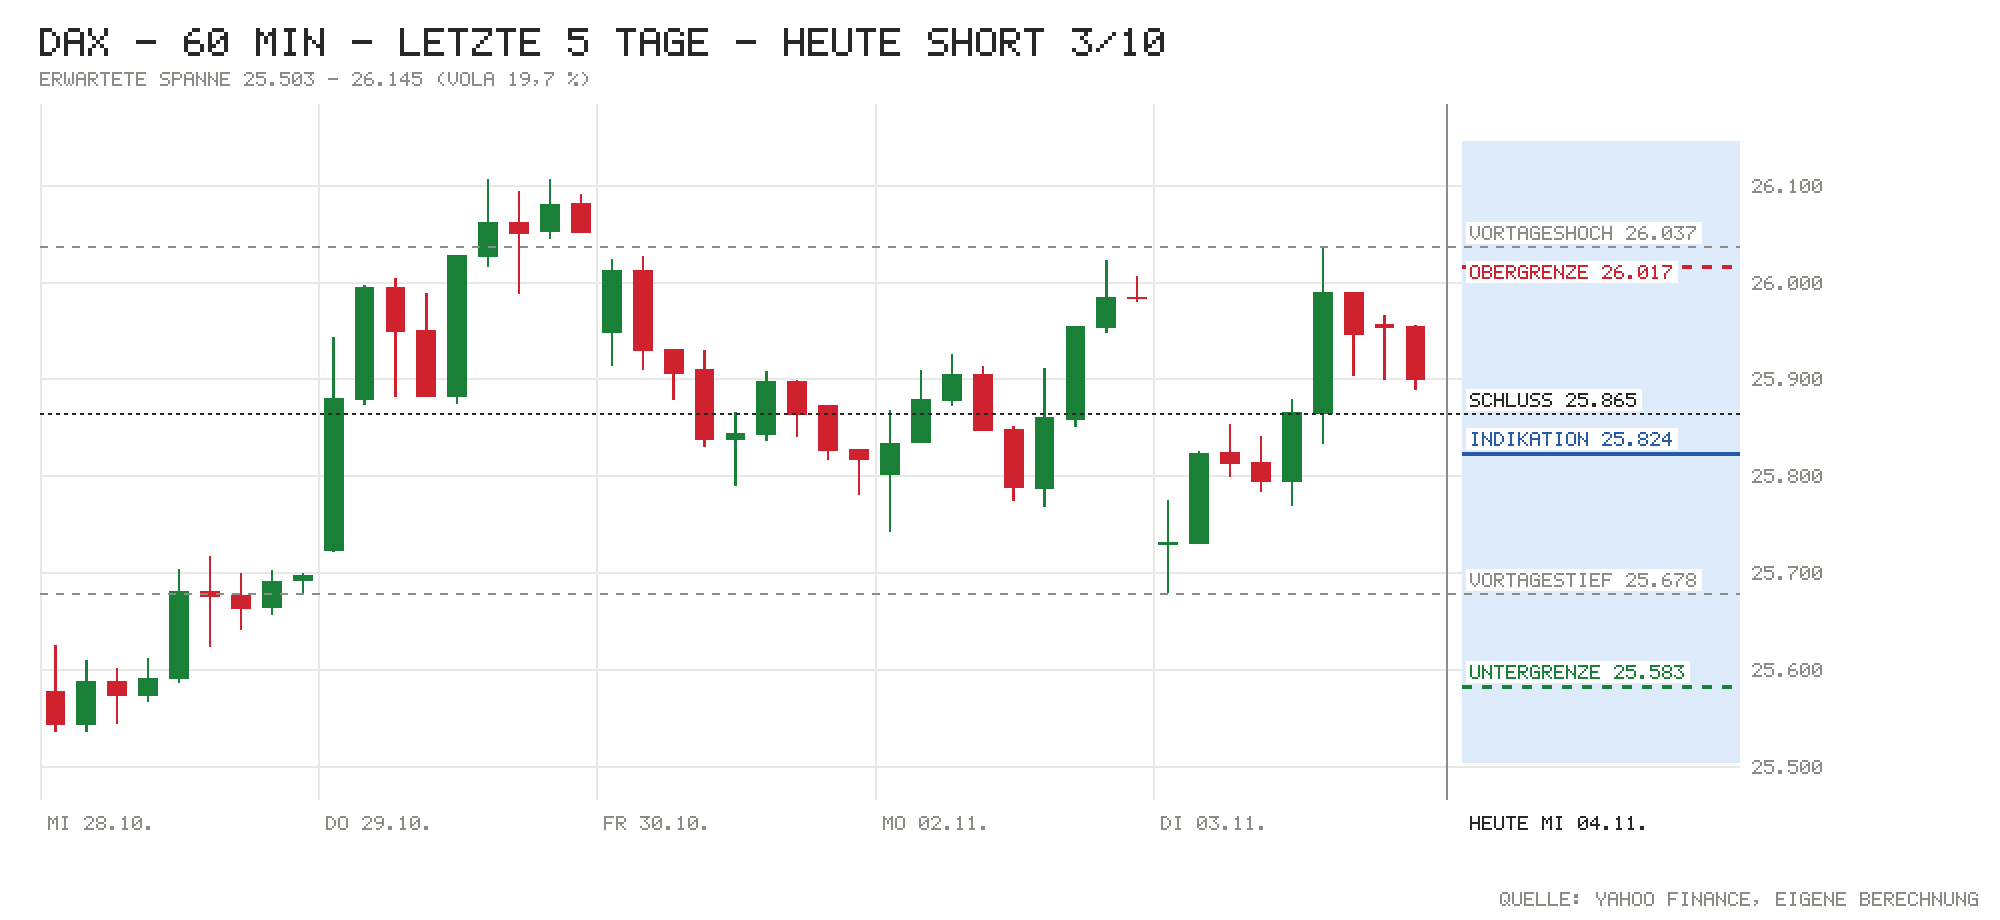
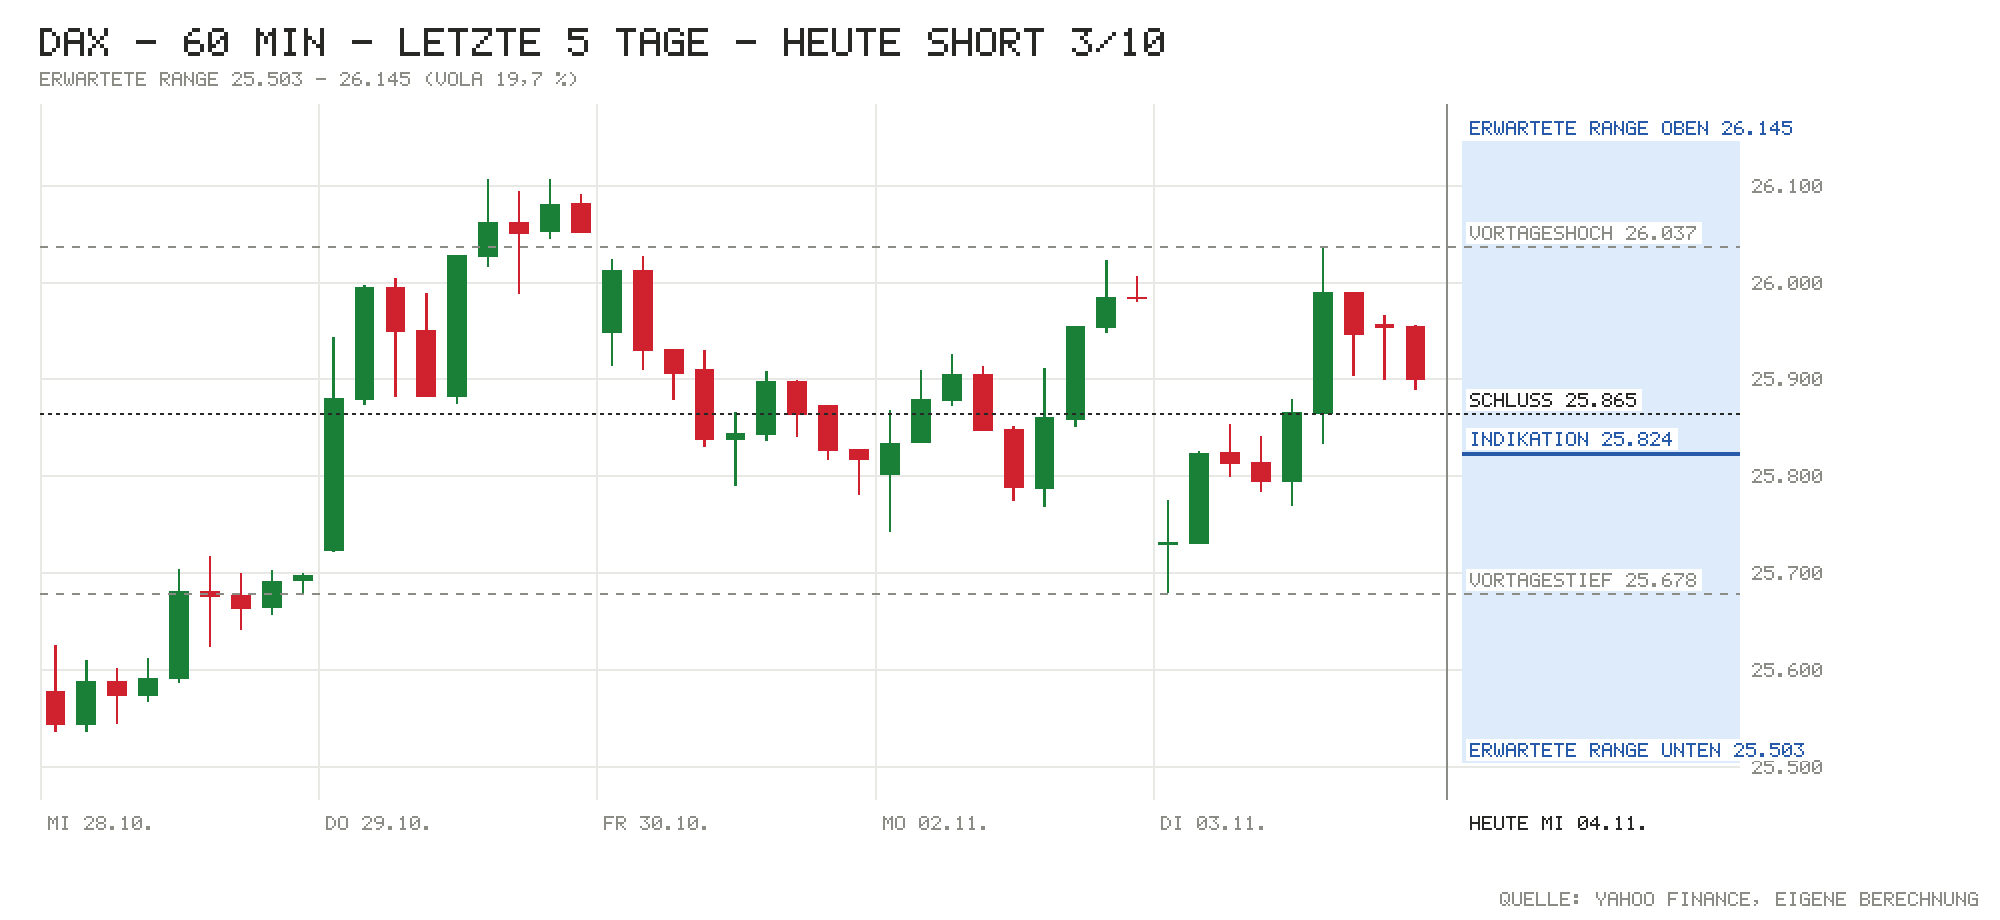
Chart: Ober-/Untergrenze entfernt, Spanne heißt jetzt erwartete Range (oben/unten)

diff --git a/notizen/dax/2026-11-04.html b/notizen/dax/2026-11-04.html
@@ -24,7 +24,7 @@ erstellt: 04.11.2026 08:45
   <div class="chart-live" data-src="{{BASIS}}dax/charts/2026-11-04.json"></div>
   <figure class="chart">
     <img src="{{BASIS}}dax/charts/2026-11-04.png" alt="DAX Stundenkerzen der letzten 5 Tage mit Marken für heute">
-    <figcaption>Ziehen zum Verschieben, Mausrad oder zwei Finger zum Zoomen. Rechts: heute mit Spanne, Indikation, Ober- und Untergrenze.</figcaption>
+    <figcaption>Ziehen zum Verschieben, Mausrad oder zwei Finger zum Zoomen. Rechts: heute mit erwarteter Range und Indikation.</figcaption>
   </figure>
 </section>
 

diff --git a/docs/dax/archiv/2026-11-04.html b/docs/dax/archiv/2026-11-04.html
@@ -34,7 +34,7 @@
   <div class="chart-live" data-src="../../dax/charts/2026-11-04.json"></div>
   <figure class="chart">
     <img src="../../dax/charts/2026-11-04.png" alt="DAX Stundenkerzen der letzten 5 Tage mit Marken für heute">
-    <figcaption>Ziehen zum Verschieben, Mausrad oder zwei Finger zum Zoomen. Rechts: heute mit Spanne, Indikation, Ober- und Untergrenze.</figcaption>
+    <figcaption>Ziehen zum Verschieben, Mausrad oder zwei Finger zum Zoomen. Rechts: heute mit erwarteter Range und Indikation.</figcaption>
   </figure>
 </section>
 

diff --git a/docs/dax/index.html b/docs/dax/index.html
@@ -34,7 +34,7 @@
   <div class="chart-live" data-src="../dax/charts/2026-11-04.json"></div>
   <figure class="chart">
     <img src="../dax/charts/2026-11-04.png" alt="DAX Stundenkerzen der letzten 5 Tage mit Marken für heute">
-    <figcaption>Ziehen zum Verschieben, Mausrad oder zwei Finger zum Zoomen. Rechts: heute mit Spanne, Indikation, Ober- und Untergrenze.</figcaption>
+    <figcaption>Ziehen zum Verschieben, Mausrad oder zwei Finger zum Zoomen. Rechts: heute mit erwarteter Range und Indikation.</figcaption>
   </figure>
 </section>
 

diff --git a/scripts/chart.py b/scripts/chart.py
@@ -5,7 +5,7 @@
 
 Liest daten/<bericht>/JJJJ-MM-TT.json (Stundenkerzen) und entscheidungen/<bericht>/JJJJ-MM-TT.json (Spanne, Grenzen)
 und schreibt notizen/<bericht>/charts/JJJJ-MM-TT.png (+ .json für den beweglichen Chart): die letzten 5 Handelstage in Stundenkerzen, Vortageshoch,
--tief und -schluss, rechts der heutige Tag mit erwarteter Spanne, Referenzkurs, Ober- und Untergrenze.
+-tief und -schluss, rechts der heutige Tag mit erwarteter Range (oben/unten) und Referenzkurs.
 """
 
 import argparse
@@ -141,7 +141,7 @@ def main():
     werte = [c["h"] for c in kerzen] + [c["l"] for c in kerzen]
     for key in ("spanne",):
         werte += e.get(key) or []
-    for key in ("ziel_ca", "stopp_ca", "referenz"):
+    for key in ("referenz",):
         if e.get(key):
             werte.append(e[key])
     lo, hi = min(werte), max(werte)
@@ -192,14 +192,9 @@ def main():
             marken.append((vs, f"SCHLUSS {zahl(vs)} = REF.", BLAU))
         else:
                 marken.append((e["referenz"], f"{'INDIKATION' if e.get('referenz_art') == 'Indikation' else 'REFERENZ'} {zahl(e['referenz'])}", BLAU))
-    if e.get("ziel_ca"):
-        bild.waagerecht(x_heute, R, y(e["ziel_ca"]), GRUEN, strich=5, dicke=2)
-        grenze = "OBERGRENZE" if e["ziel_ca"] > (e.get("referenz") or 0) else "UNTERGRENZE"
-        marken.append((e["ziel_ca"], f"{grenze} {zahl(e['ziel_ca'])}", GRUEN))
-    if e.get("stopp_ca"):
-        bild.waagerecht(x_heute, R, y(e["stopp_ca"]), ROT, strich=5, dicke=2)
-        grenze = "OBERGRENZE" if e["stopp_ca"] > (e.get("referenz") or 0) else "UNTERGRENZE"
-        marken.append((e["stopp_ca"], f"{grenze} {zahl(e['stopp_ca'])}", ROT))
+    if e.get("spanne"):
+        marken.append((e["spanne"][1], f"ERWARTETE RANGE OBEN {zahl(e['spanne'][1])}", BLAU))
+        marken.append((e["spanne"][0], f"ERWARTETE RANGE UNTEN {zahl(e['spanne'][0])}", BLAU))
     # Beschriftungen links im Heute-Bereich, ohne Überlappung
     belegt = []
     for wert, label, farbe in sorted(marken, key=lambda m: -m[0]):
@@ -216,7 +211,7 @@ def main():
         kopf += f" - HEUTE {richtung}" + (f" {e['score']}/10" if e.get("score") else "")
     bild.text(L, 14, kopf, TEXT, groesse=2)
     if e.get("spanne"):
-        bild.text(L, 36, f"ERWARTETE SPANNE {zahl(e['spanne'][0])} - {zahl(e['spanne'][1])} (VOLA {e['vola_pct']:.1f} %)".replace(f"{e['vola_pct']:.1f}", f"{e['vola_pct']:.1f}".replace(".", ",")), LEISE)
+        bild.text(L, 36, f"ERWARTETE RANGE {zahl(e['spanne'][0])} - {zahl(e['spanne'][1])} (VOLA {e['vola_pct']:.1f} %)".replace(f"{e['vola_pct']:.1f}", f"{e['vola_pct']:.1f}".replace(".", ",")), LEISE)
     bild.text(B - 10, H - 14, "QUELLE: YAHOO FINANCE, EIGENE BERECHNUNG", LEISE, rechts=True)
 
     ziel = ROOT / "notizen" / a.bericht / "charts" / f"{a.name or d}.png"
@@ -236,13 +231,9 @@ def main():
         linien[-1] = {"name": "Vortagesschluss = Referenz", "preis": vs, "farbe": "blau", "stil": "durchgezogen"}
     if e.get("referenz") and not (e.get("referenz_art") != "Indikation" and abs(e["referenz"] - vs) < 1):
         linien.append({"name": "Indikation" if e.get("referenz_art") == "Indikation" else "Referenz", "preis": e["referenz"], "farbe": "blau", "stil": "durchgezogen"})
-    for key in ("ziel_ca", "stopp_ca"):
-        if e.get(key):
-            grenze = "Obergrenze" if e[key] > (e.get("referenz") or vs) else "Untergrenze"
-            linien.append({"name": grenze, "preis": e[key], "farbe": "plus" if key == "ziel_ca" else "minus", "stil": "gestrichelt", "dick": True})
     if e.get("spanne"):
-        linien += [{"name": "Spanne oben", "preis": e["spanne"][1], "farbe": "band", "stil": "gepunktet"},
-                   {"name": "Spanne unten", "preis": e["spanne"][0], "farbe": "band", "stil": "gepunktet"}]
+        linien += [{"name": "Erwartete Range oben", "preis": e["spanne"][1], "farbe": "band", "stil": "gestrichelt", "dick": True},
+                   {"name": "Erwartete Range unten", "preis": e["spanne"][0], "farbe": "band", "stil": "gestrichelt", "dick": True}]
     tage_alle = [c for c in (daten.get("maerkte", {}).get(cfg["index"], {}).get("kerzen") or []) if c["tag"] < d]
     live = {
         "datum": d,

diff --git a/berichte/dax.md b/berichte/dax.md
@@ -99,7 +99,7 @@ Danach genau diese Abschnitte, nur diese Tags und Klassen, keine Inline-Styles (
   <div class="chart-live" data-src="{{BASIS}}dax/charts/JJJJ-MM-TT.json"></div>   <!-- beweglicher Chart; ersetzt auf der Webseite das Bild -->
   <figure class="chart">
     <img src="{{BASIS}}dax/charts/JJJJ-MM-TT.png" alt="DAX Stundenkerzen der letzten 5 Tage mit Marken für heute">
-    <figcaption>Ziehen zum Verschieben, Mausrad oder zwei Finger zum Zoomen. Rechts: heute mit Spanne, Indikation, Ober- und Untergrenze.</figcaption>
+    <figcaption>Ziehen zum Verschieben, Mausrad oder zwei Finger zum Zoomen. Rechts: heute mit erwarteter Range und Indikation.</figcaption>
   </figure>
 </section>
 
